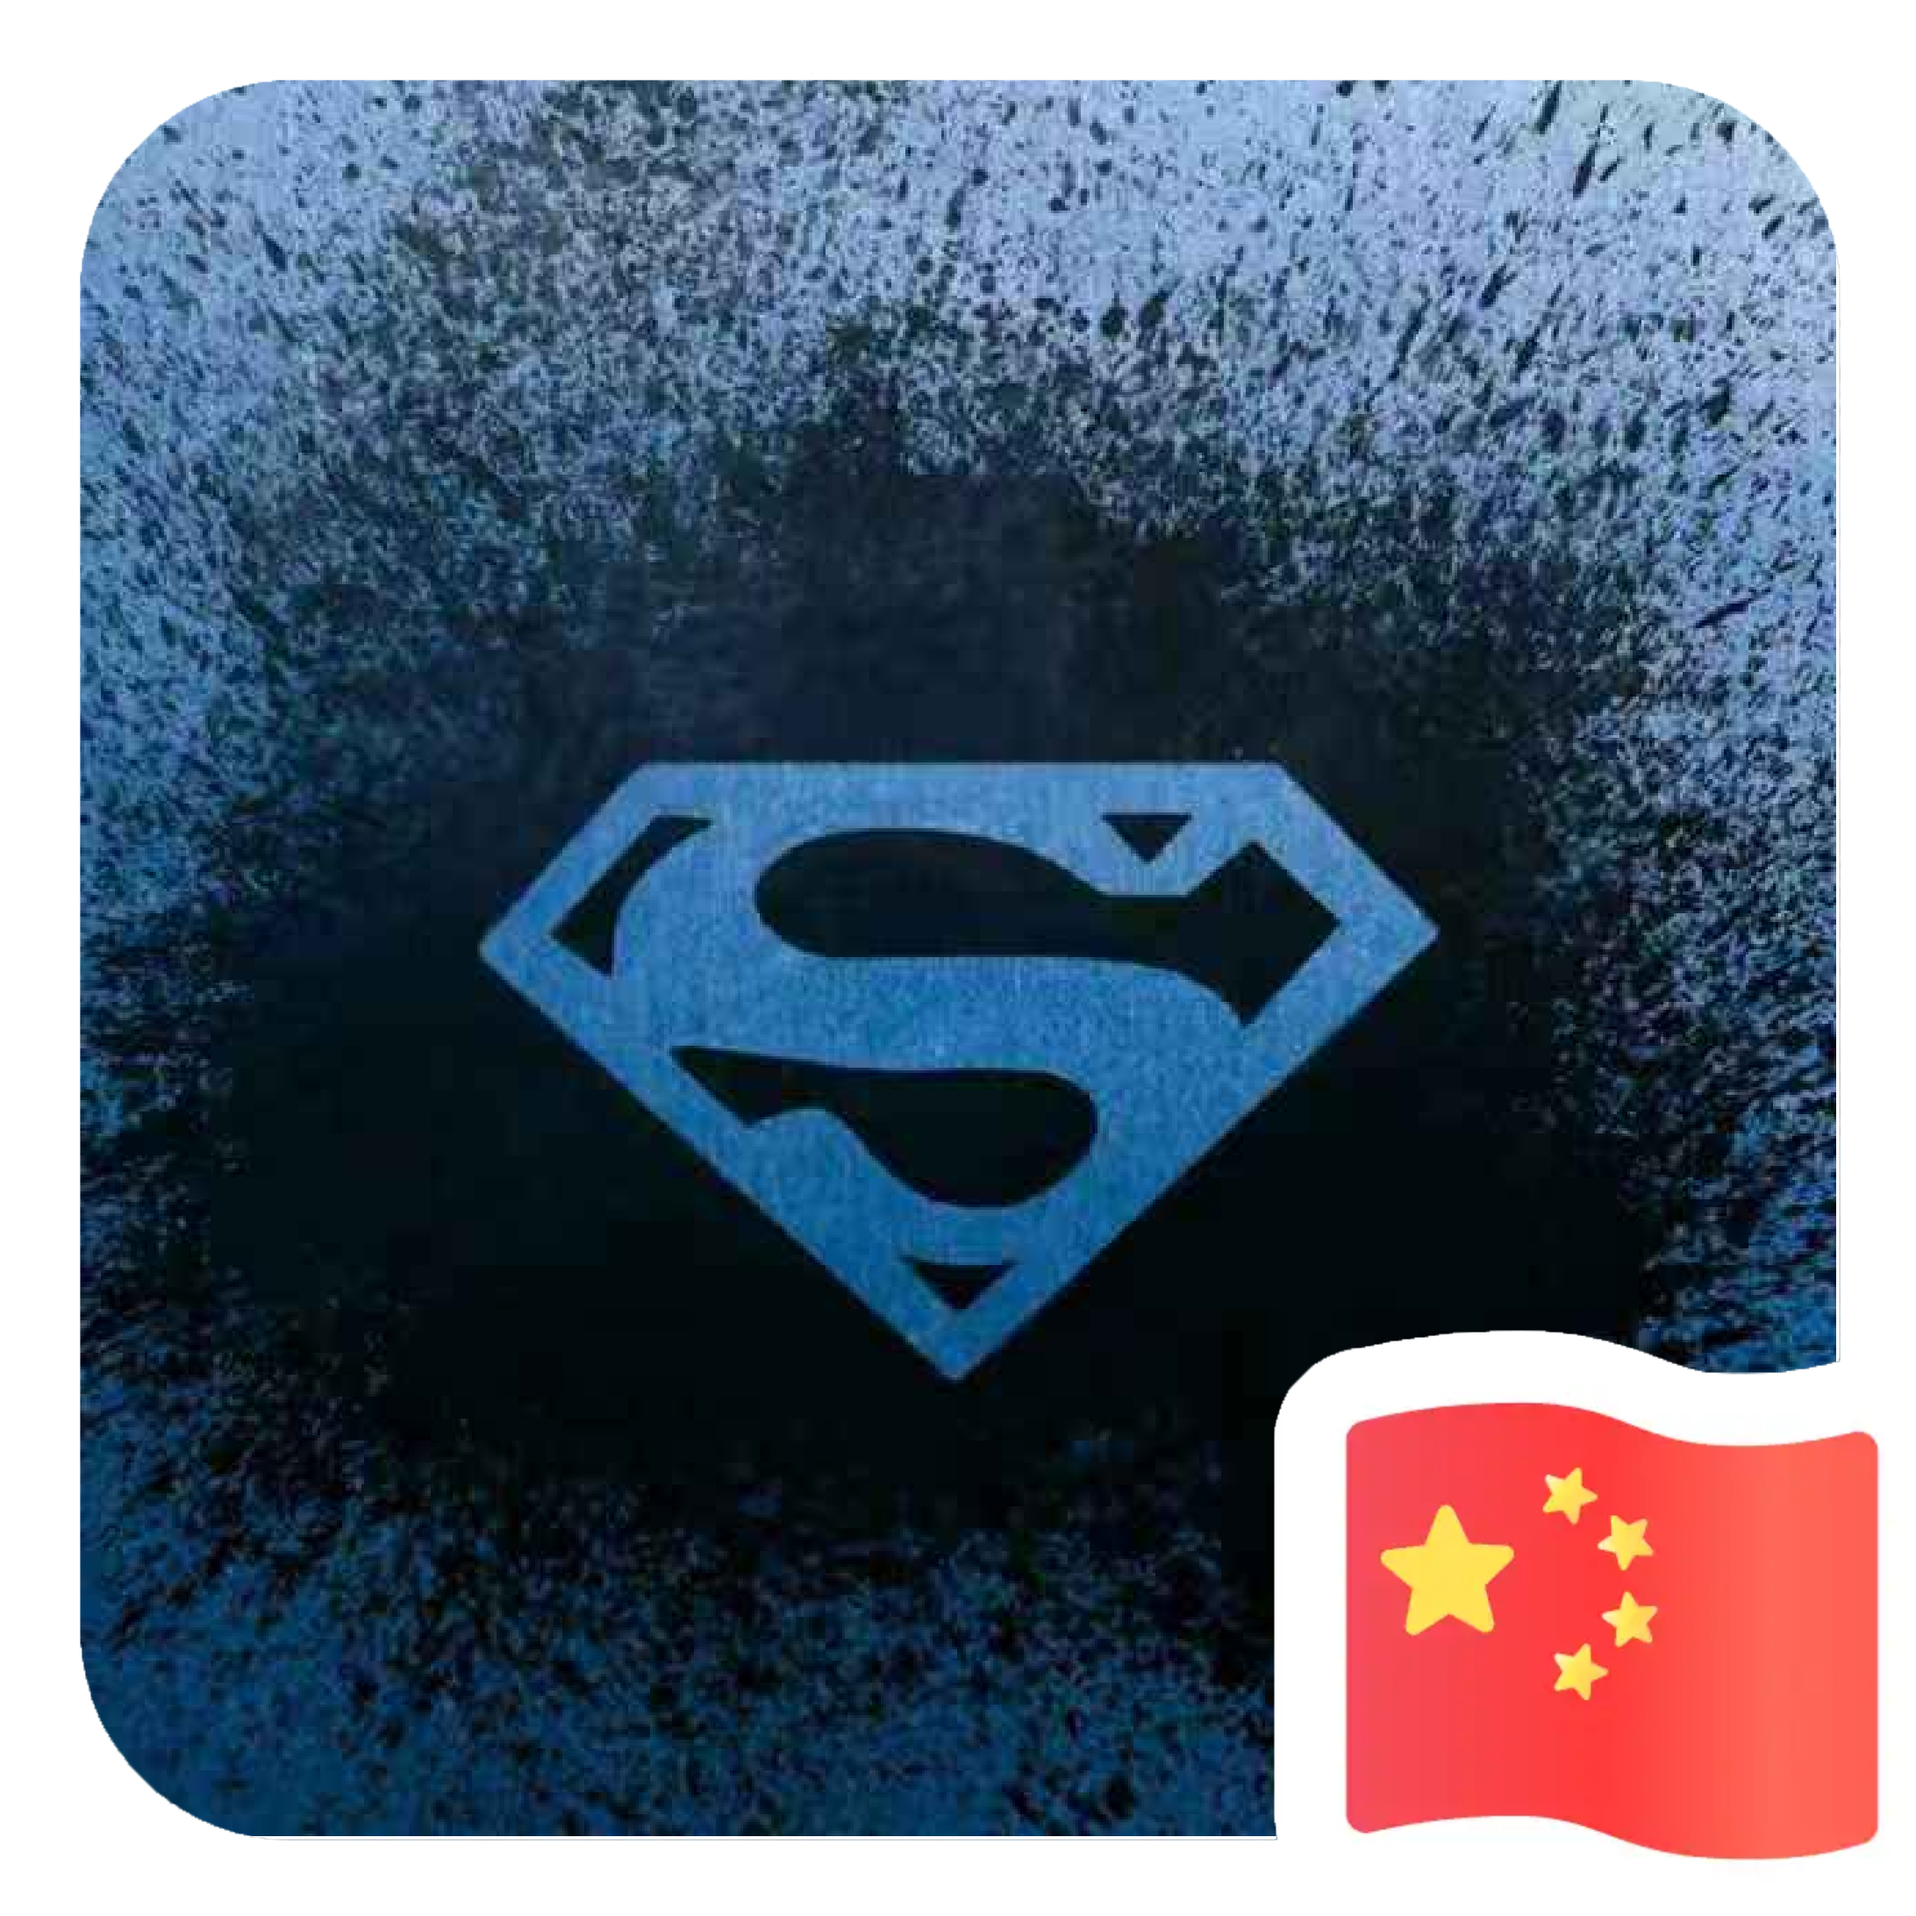
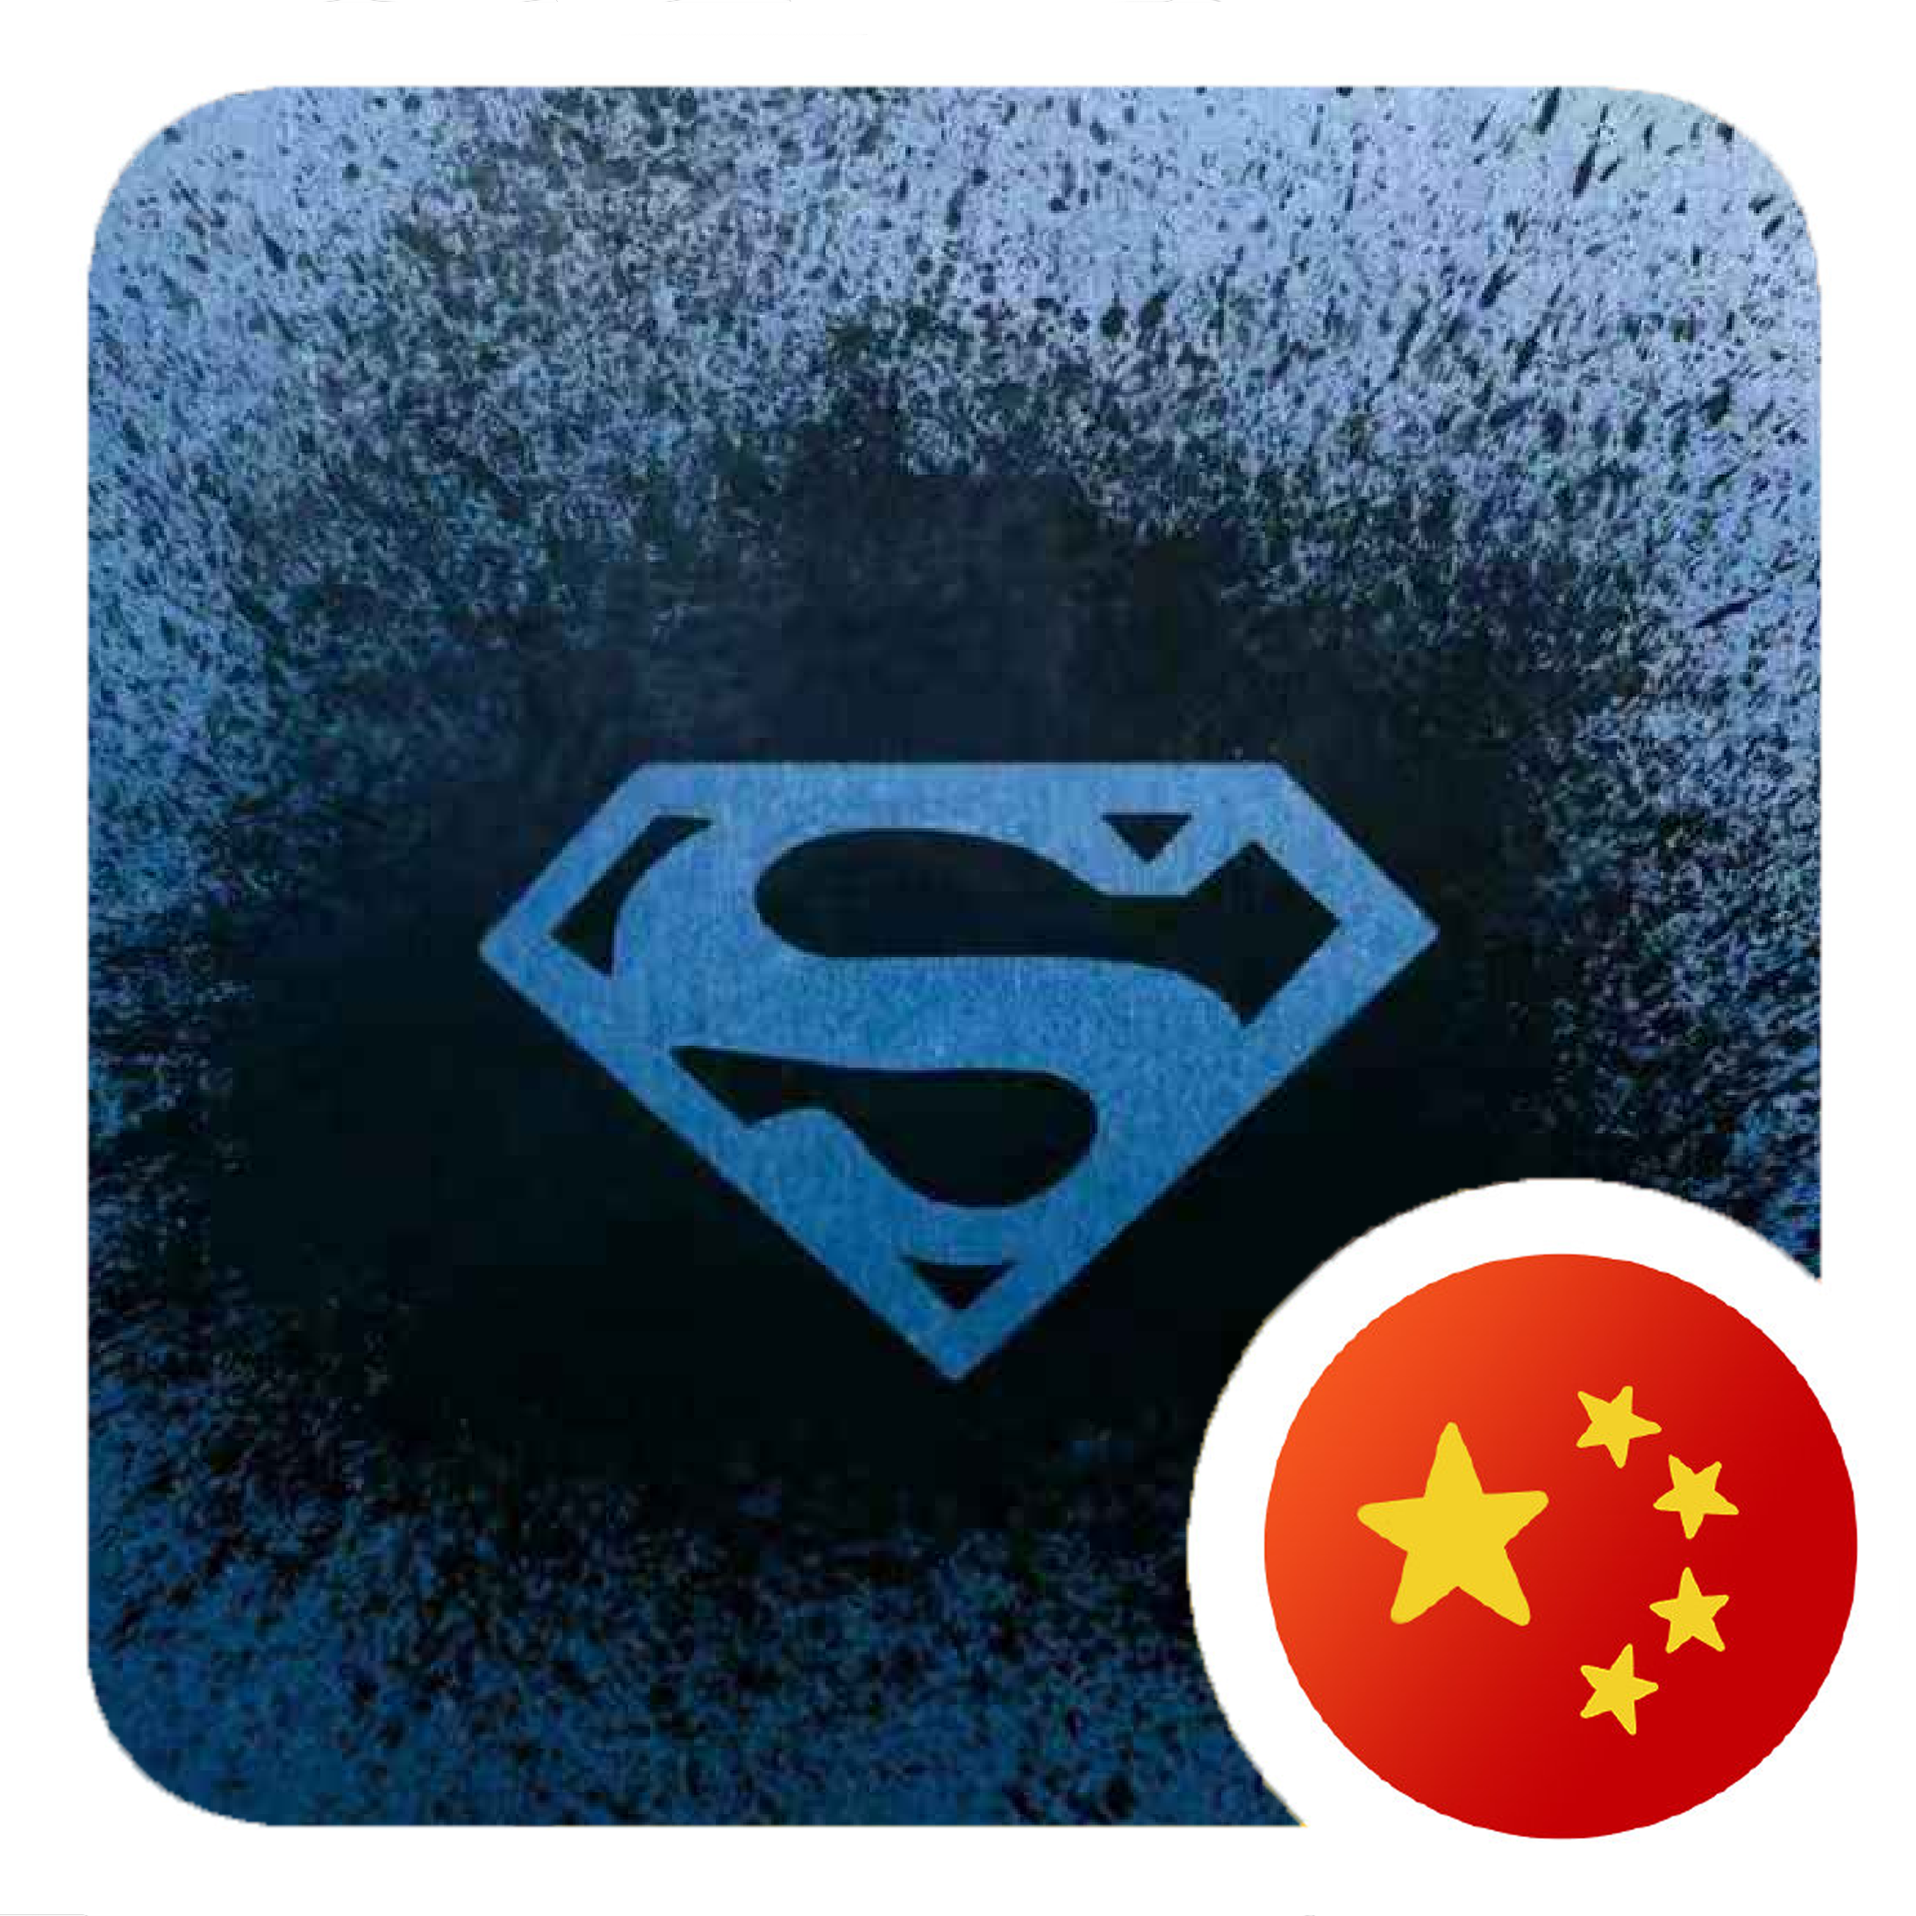
Added several frames

diff --git a/Avatar.py b/Avatar.py
@@ -2,20 +2,20 @@ from PIL import Image
 
 
 class Avatar(Image.Image):
-    def __init__(self, avatar_path, frame_path='AvatarFrame.png'):
+    def __init__(self, avatar_path):
         self.avatar = Image.open(avatar_path)
         self.avatar.convert('RGBA')
-        self.frame = Image.open(frame_path)
-        self.frame.convert('RGBA')
         self.frame_width_rate = 0.083
 
-    def GetNewAvatar(self):
-        frame_width = int(self.frame.size[0] * self.frame_width_rate)
-        re_size_w, re_size_h = self.frame.size[0] - frame_width, self.frame.size[1] - frame_width
+    def GetNewAvatar(self, mode='flag'):
+        frame = Image.open('AvatarFrame_{}.png'.format(mode))
+        frame.convert('RGBA')
+        frame_width = int(frame.size[0] * self.frame_width_rate)
+        re_size_w, re_size_h = frame.size[0] - frame_width, frame.size[1] - frame_width
         avatar = self.avatar.resize((re_size_w, re_size_h))
-        temp_avatar = Image.new('RGBA', self.frame.size)
+        temp_avatar = Image.new('RGBA', frame.size)
         x1 = int(frame_width / 2)
         y1 = int(frame_width / 2)
         temp_avatar.paste(avatar, (x1, y1, x1 + re_size_w, y1 + re_size_h))
-        temp_avatar.paste(self.frame, (0, 0, 2184, 2184), self.frame)
+        temp_avatar.paste(frame, (0, 0, 2184, 2184), frame)
         temp_avatar.save('new_avatar.png')

diff --git a/main.py b/main.py
@@ -1,4 +1,4 @@
 import Avatar
 
 avatar = Avatar.Avatar('Avatar.png')
-avatar.GetNewAvatar()
+avatar.GetNewAvatar('circleflag')
